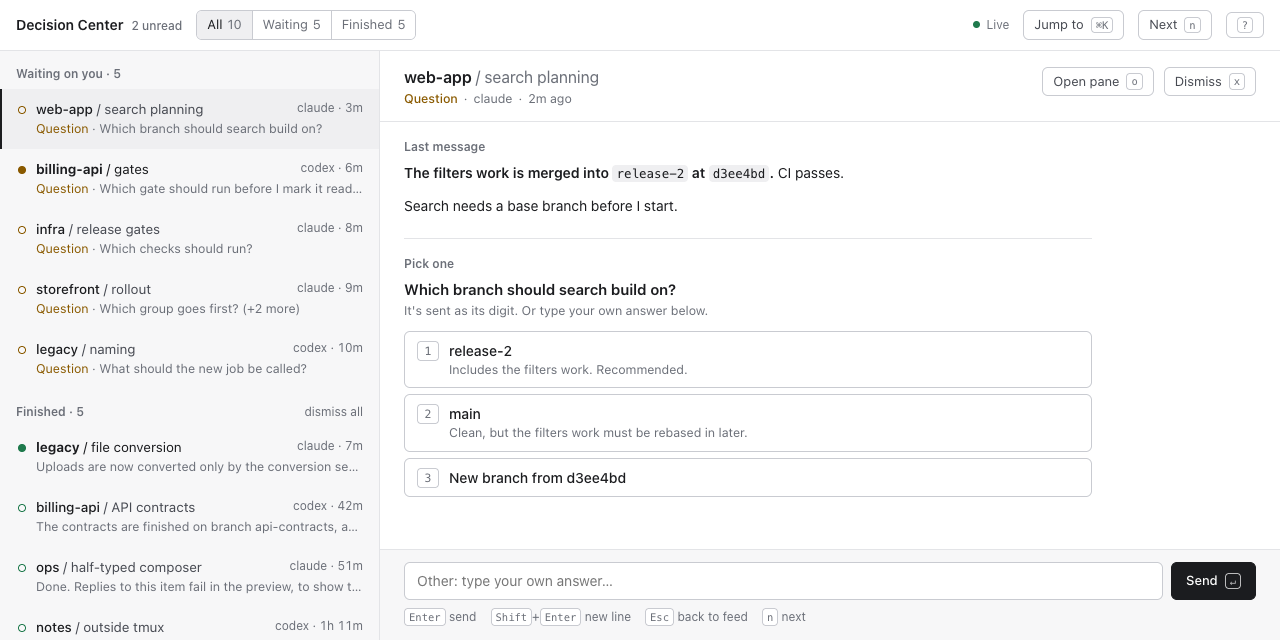
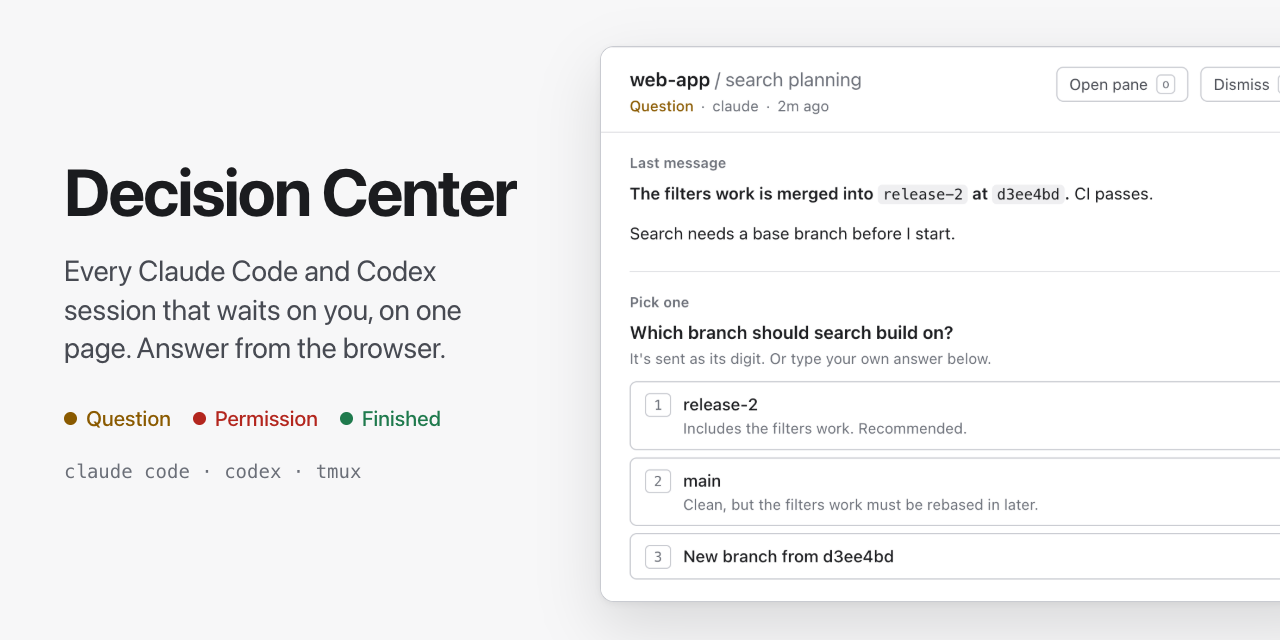
Make the social image a title card
The plain screenshot was unreadable at link-card size and did not name
the tool. The card has the name, one line on what it does, and one
question from the fixture preview.

diff --git a/README.md b/README.md
@@ -230,7 +230,7 @@ npm run build     # rebuild dist/decision-center.mjs and dist/hook.mjs; commit t
 npm run preview   # serve the page against fixtures
 ```
 
-The screenshots in `docs/screenshots/` come from `npm run preview` at 1280 by 800, so they show fixture data and no real session. `docs/demo.gif` and `docs/social-preview.png` come from the same preview.
+The screenshots in `docs/screenshots/` come from `npm run preview` at 1280 by 800, so they show fixture data and no real session. `docs/demo.gif` comes from the same preview. `docs/social-preview.png` is a title card around one preview screenshot.
 
 GitHub Actions runs `npm test` on every push to `main` and on every pull request, on Linux with tmux installed.
 
